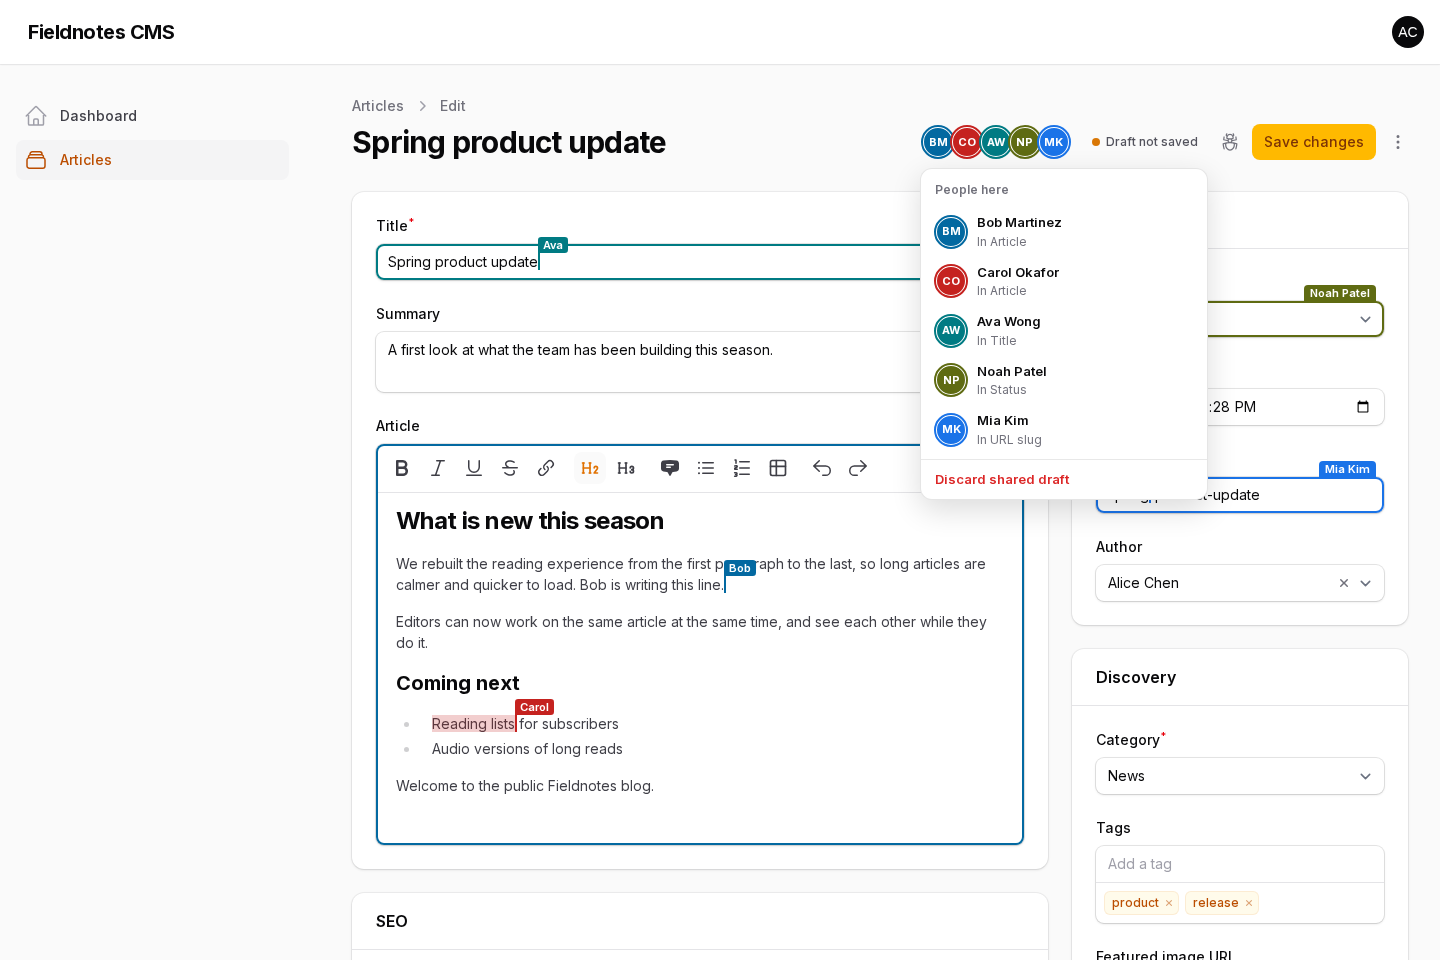
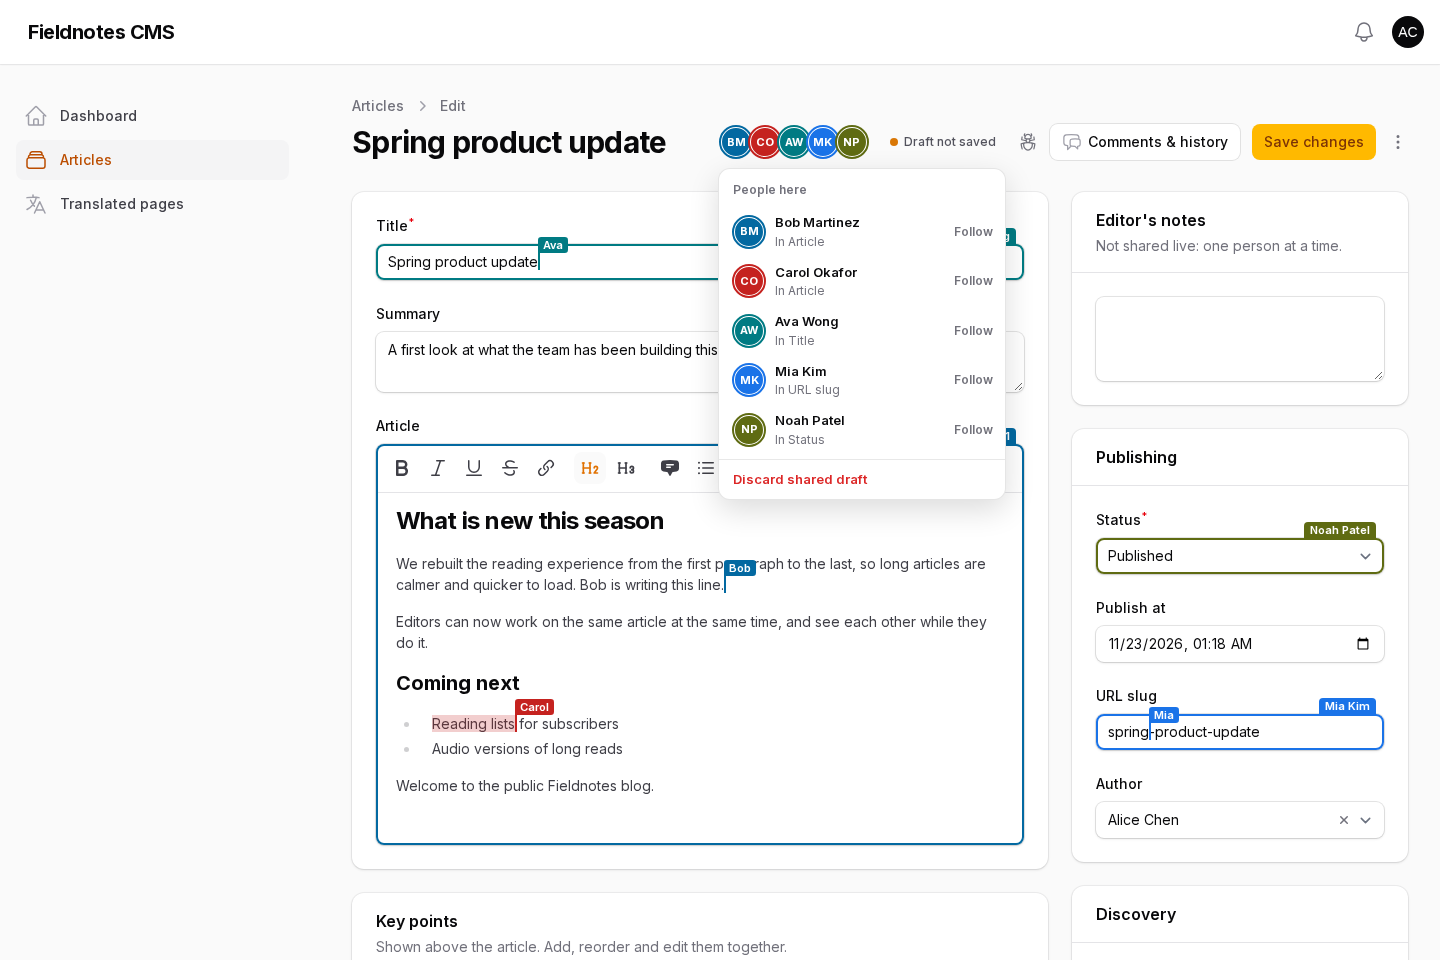
docs: README, guide, architecture and demo README for the new features, with screenshots
Eight new screenshots, captured from real sessions by npm run media:
comments, history, a colleague behind a closed tab, following, two
languages at once, a live upload, third-party editors and a relation
manager. The other ten are captured again with the current UI.

diff --git a/docs/guide.md b/docs/guide.md
@@ -116,6 +116,8 @@ A field the package does not know, such as a third-party editor, merges on save.
 
 **Translated pages** (a locale switcher, such as `lara-zeus/spatie-translatable`'s) are live too, with one shared draft per language. Everybody on the record is in one room and sees each other, while English typing stays in the English draft and Chinese in the Chinese one. Switching language moves your page to that language's draft, including colleagues' unsaved typing there. Saving publishes the language you are on; the others keep what is stored, and their drafts are saved from their own language.
 
+![Bob in the Chinese draft while Alice is in the English one](media/translations.png)
+
 Date pickers with a personal timezone always merge on save, because their state differs per person.
 
 ## 3. Saving, drafts and conflicts
@@ -213,6 +215,8 @@ protected function getHeaderActions(): array
 
 A version is kept at most every five minutes while people edit, on every save, and before and after a restore, up to the last 100 per draft, in `filament_collaboration_versions`. **Restore** puts the draft back as it was, for everybody in the room at once; the draft from before the restore stays in the list, so a restore can be undone. It changes only the live fields the person may edit, and nothing is saved until somebody saves. On a translated page each language has its own history.
 
+![The history: who changed which fields, and a restore](media/history.png)
+
 **Comments** are on the record, or on one of its fields. Everybody who can open the record reads them and can comment. The author and anybody who may edit the record can resolve or reopen a comment. The button shows how many comments are open. Every language of a translated record shares its comments, and deleting a record for good deletes them too.
 
 To let people `@mention` each other, say who may be mentioned on a record. The comment box suggests their names after `@`. Each person mentioned gets a Filament [database notification](https://filamentphp.com/docs/notifications/database-notifications) that links back to the record:
@@ -226,11 +230,17 @@ $panel->databaseNotifications(); // to show them in the panel
 
 Pass `notify: false` to skip the notifications. `CommentPosted` (`record`, `by`, `comment`, `url`) is dispatched for every comment, and `$event->comment->mentions` lists the people it mentions, so you can send the news anywhere else too.
 
+![Comments on fields, with a mention being picked](media/comments.png)
+
 ## 4. Presence in tables and modals
 
 **Fields out of sight.** When somebody is in a field behind a tab that is not selected, a wizard step that is not current, or a collapsed section, their initials show on that tab, step or section header. Choosing them in the avatar list opens the tab and the section and scrolls to the field. There is nothing to set up.
 
+![Bob is behind the closed Publishing tab](media/hidden-field.png)
+
 **Following a colleague.** In the avatar list, **Follow** next to somebody keeps going to whichever field they are in, opening tabs and sections on the way, so you can watch a walkthrough without chasing it. Clicking or typing anywhere in the form stops it, and so does **Stop following** or them leaving.
+
+![Following Bob opened the tab and the section](media/follow.png)
 
 **Relation managers.** Add `SharesRelationChanges` to a relation manager, and what one person creates, edits, deletes, attaches or toggles in it shows at once in everybody else's copy of the page, over Reverb or at their next poll:
 
@@ -242,6 +252,8 @@ class TasksRelationManager extends RelationManager
     use SharesRelationChanges;
 }
 ```
+
+![Tasks Alice added, in Bob's open copy](media/relation-manager.png)
 
 **A column with the people on each record:**
 
@@ -434,6 +446,8 @@ An image inserted into a rich editor is stored at once, so whoever saves keeps i
 
 **Upload fields** work the same way. A file is checked against the field's own rules (type, size, count) and stored the moment it finishes uploading, so everybody sees it at once and anybody's save keeps it. The list of files is shared like a repeater's items: adding, removing and reordering merge. A browser can only add files stored for this draft, or files the record already has.
 
+![A file Alice uploaded, in Bob's form](media/live-uploads.png)
+
 If you use Filament's `preventFilePathTampering()`, also allow files stored for the draft, as a colleague's file is not yet one of the record's:
 
 ```php
@@ -533,6 +547,10 @@ Only `read` and `write` are required; without the selection methods, edits still
 
 If the adapter is missing, or throws, the field simply merges on save as before.
 
+The demo's `packages/` folder has working adapters for TinyMCE, CKEditor 5, Quill and Trix:
+
+![TinyMCE and Quill, live with carets](media/third-party-editors.png)
+
 ### HTML editors
 
 TinyMCE, CKEditor, Quill, Trix and most WYSIWYG editors hold HTML. Merging HTML by character could break its tags, so an adapter with `format: 'html'` hands over HTML, and the package turns it into the same document the built-in rich editor shares: paragraphs, headings, bold, italic, underline, strike, code, links, lists, quotes, tables, images and line breaks. Those merge by character, block and mark, with carets; anything else in the HTML is kept as its text. On save, the field gets HTML back.
@@ -570,6 +588,22 @@ Register its PHP side with `FieldKind::RichText`. Keep the editor object off Alp
 **Working examples** are in `demo/packages/`: a TinyMCE, a CKEditor 5, a Quill and a Trix field, each a small Filament package with its adapter in `resources/js/editor.js` and its registration in the service provider. The demo's article form uses all four, and the browser tests type in each from two browsers at once. Rebuild them with `npm run build:editors` in `demo/`. TinyMCE and CKEditor 5 are GPL-licensed when used without a commercial licence key.
 
 **Your own presence storage.** Presence is stored in the database by default. Bind your own implementation of `Contracts\PresenceRepository`, for example on Redis, in a service provider.
+
+### With an AI assistant
+
+The package ships a [Laravel Boost](https://laravel.com/docs/boost) skill, `filament-collaboration-development`, and a short guideline in `resources/boost`. Boost installs a package's skills once the app opts in, in `boost.json`:
+
+```json
+{
+    "packages": ["solutionforest/filament-collaboration"]
+}
+```
+
+```bash
+php artisan boost:update
+```
+
+The guideline goes into your `CLAUDE.md` / `AGENTS.md`, and the skill into `.claude/skills` and `.agents/skills`. It covers the traits, which fields are live, permissions, comments and history, relation managers, adapters, Reverb and Redis presence, testing and common mistakes. The demo uses it.
 
 ## 10. Debugging
 

diff --git a/README.md b/README.md
@@ -26,8 +26,12 @@
 | **Real merging** | Two people typing in the same sentence both keep their words. Undo only undoes your own typing. Edits survive going offline and reloading. |
 | **Polling or WebSockets** | Works on plain HTTP through your Laravel app, with nothing to install. Add Laravel Reverb and a keystroke reaches others in about 60 ms instead of 350 ms. |
 | **Safe by default** | Every request is authorised again, every edit is validated, and fields a person cannot see never reach their browser. |
-| **Comments and history** | One slide-over: comments on fields with `@mentions` and notifications, and the draft's versions, restored for everybody in a click. See [Comments and version history](docs/guide.md#comments-and-version-history). |
+| **Comments and history** | One slide-over: comments on the record or a field with `@mentions` and notifications, and the draft's versions, restored for everybody in a click. See [Comments and version history](docs/guide.md#comments-and-version-history). |
+| **Nobody out of sight** | A colleague in a field behind a closed tab, wizard step or collapsed section shows on its header; **Follow** keeps your page on whichever field they are in. |
+| **Translations, uploads, relations** | Translated pages get one shared draft per language. Uploaded files appear for everyone at once. Relation managers refresh in colleagues' open copies. |
+| **Scales out** | Several app servers on one database, presence in Redis, changes over Reverb; a load test with 300 editors across two servers is included. |
 | **Merge on save for the rest** | Fields that cannot be live get a field-by-field three-way merge with a conflict dialog. |
+| **Ready for AI assistants** | Ships a [Laravel Boost](https://laravel.com/docs/boost) skill and guideline, so Claude Code, Cursor or Codex know how to use it in your app. |
 
 ## Requirements
 
@@ -135,18 +139,61 @@ Sign in at `/admin` as `alice@example.test` and, in another browser, `bob@exampl
 | ![Who is here](docs/media/people-panel.png) | ![Dark mode](docs/media/dark-mode.png) |
 | ![Quick edit](docs/media/quick-edit.png) | ![Phone](docs/media/mobile.png) |
 
+**Comments and history**, in one slide-over: comments on a field with `@mentions`, and versions of the shared draft to restore.
+
+| | |
+| --- | --- |
+| ![Comments with an @mention being picked](docs/media/comments.png) | ![The history, with a restore](docs/media/history.png) |
+
+**Out of sight, but not out of mind**: Bob is in a field behind the closed Publishing tab, so his initials are on the tab. Following him opens it.
+
+| | |
+| --- | --- |
+| ![Initials on a closed tab](docs/media/hidden-field.png) | ![Following a colleague](docs/media/follow.png) |
+
+**Two languages at once**, each in its own draft, and **editors from other packages**, live through an adapter:
+
+| | |
+| --- | --- |
+| ![A translated page, Bob in Chinese while Alice is in English](docs/media/translations.png) | ![TinyMCE and Quill, with carets](docs/media/third-party-editors.png) |
+
+**Uploads and relation managers**: a file Alice uploads is in Bob's form at once, and so are the tasks she adds to the checklist.
+
+| | |
+| --- | --- |
+| ![A live upload](docs/media/live-uploads.png) | ![A relation manager refreshed](docs/media/relation-manager.png) |
+
+The demo also has a **Translated pages** resource (English and Chinese, in tabs) and a **Checklist** relation manager on articles. To run it on Redis presence, set `FILAMENT_COLLABORATION_PRESENCE=redis` in `.env`.
+
+## With an AI assistant
+
+The package ships a [Laravel Boost](https://laravel.com/docs/boost) skill, `filament-collaboration-development`, and a short guideline. In an app that uses Boost, add the package to `boost.json` and update:
+
+```json
+{
+    "packages": ["solutionforest/filament-collaboration"]
+}
+```
+
+```bash
+php artisan boost:update
+```
+
+Your assistant then knows the traits, which fields are live, adapters, comments and history, relation managers, Redis presence and how to test them. The skill is in [`resources/boost/skills`](resources/boost/skills/filament-collaboration-development/SKILL.md), readable on its own too.
+
 ## Quality
 
 Each push runs [`tests.yml`](.github/workflows/tests.yml):
 
 | Check | What |
 | --- | --- |
-| Pest | 281 tests on PHP 8.3 and 8.4 × Laravel 12 and 13 with Filament 5, plus the oldest supported Filament, 5.8.3; at least 95% line coverage |
+| Pest | 321 tests on PHP 8.3 and 8.4 × Laravel 12 and 13 with Filament 5, plus the oldest supported Filament, 5.8.3; at least 95% line coverage; the whole suite again with presence in Redis |
 | PHPStan | level 10, on the package and the demo |
 | Pint | Laravel's code style |
 | JavaScript | `tsc --strict` over JSDoc types, ESLint, and the CRDT's unit tests with at least 95% coverage |
-| Browsers | 47 scenarios in Chromium with polling and with Reverb, and in WebKit |
+| Browsers | 54 scenarios in Chromium with polling and with Reverb, and in WebKit |
 | Chaos | [nightly](.github/workflows/chaos.yml): four browsers pressing random keys must converge with no editor error |
+| Load | [on demand](.github/workflows/load.yml): hundreds of editors across two servers, database or Redis presence, polling or Reverb |
 
 Run them yourself:
 
@@ -154,7 +201,8 @@ Run them yourself:
 cd demo
 vendor/bin/pest --coverage      # PHP tests
 vendor/bin/phpstan analyse      # static analysis, level 10
-npm run test:e2e                # real browsers; BROWSER=webkit, TRANSPORT=reverb
+npm run test:e2e                # real browsers; BROWSER=webkit, TRANSPORT=reverb, THROTTLE=8
+SERVERS=2 PRESENCE=redis npm run test:load -- 300 45   # many editors, two servers
 cd .. && npm run check          # JavaScript: lint, types and tests
 ```
 

diff --git a/docs/architecture.md b/docs/architecture.md
@@ -37,6 +37,9 @@ The merge engine is written twice, in PHP (`src/Crdt`) and JavaScript (`resource
 - Drafts are stored in `filament_collaboration_documents`, with an update log in `filament_collaboration_updates`. Writes happen under a row lock. The log is compacted once a draft is clean and nobody is editing.
 - Sync never writes the session, so it cannot race a save or a logout.
 - Save takes a cache lock per record, publishes the live fields from the draft, and three-way merges the rest.
+- Presence is one record per open tab, in `filament_collaboration_participants` by default. With `FILAMENT_COLLABORATION_PRESENCE=redis` it is in Redis instead: per room a hash of tabs and a sorted set of when each was last seen, per resource a sorted set of its tabs. An unchanged heartbeat is written only every few seconds either way.
+- Several application servers can share one database and one cache store: a request may reach any of them.
+- Comments, versions of the draft, uploads stored for it and the per-minute edit trail have tables of their own (`filament_collaboration_comments`, `_versions`, `_uploads`, `_edits`). A relation manager's changes raise a counter per room in the cache, pushed or polled like everything else.
 
 ## Performance
 
@@ -68,15 +71,27 @@ Pushes make changes 6 to 20 times faster. A room where most people read gets far
 
 ![A hundred people on one article](media/hundred-editors.png)
 
+### Two servers, and presence in Redis
+
+`SERVERS=2` runs two application servers on one database and spreads the editors over them; `PRESENCE=redis` keeps presence in Redis. Besides convergence, the test checks that every editor counts every other one, whichever server they are on. 300 editors for 40 seconds, polling, on a **single-CPU** machine where both servers, SQLite and the crowd share the core:
+
+| Setup | Requests per second | Request 95th percentile | Typed to seen, median | Everybody sees everybody | Converged |
+| --- | --- | --- | --- | --- | --- |
+| 1 server, database presence | 73 | 4.9 s | 8.5 s | 300 / 300 | 300 / 300 |
+| 2 servers, database presence | 75 | 4.9 s | 8.7 s | 300 / 300 | 300 / 300 |
+| 2 servers, Redis presence | 76 | 4.1 s | 6.9 s | 300 / 300 | 300 / 300 |
+
+On one core this measures correctness across servers, not how throughput scales: the latencies are the CPU queue. Redis presence still cut the slowest requests by a sixth. The **Load** workflow runs the same matrix, with Reverb too, on a CI runner and reports its core count.
+
 ## Tests
 
 | Command | Where | What |
 | --- | --- | --- |
-| `vendor/bin/pest` | `demo/` | 281 tests: the package's unit tests and the demo's feature tests |
+| `vendor/bin/pest` | `demo/` | 321 tests: the package's unit tests and the demo's feature tests; `FILAMENT_COLLABORATION_PRESENCE=redis` runs them on Redis presence |
 | `vendor/bin/phpstan analyse` | `demo/` | level 10, on the package and the demo |
-| `npm run test:e2e` | `demo/` | 47 scenarios in real browsers; `BROWSER=webkit`, `TRANSPORT=reverb` |
+| `npm run test:e2e` | `demo/` | 54 scenarios in real browsers; `BROWSER=webkit`, `TRANSPORT=reverb`, `THROTTLE=8` for a slow CPU |
 | `npm run test:chaos -- 10 42` | `demo/` | four browsers pressing random keys; every round must converge |
-| `npm run test:load -- 100 45` | `demo/` | editors and seconds; `TRANSPORT=reverb` and `ACTIVE=0.1` also apply |
+| `npm run test:load -- 100 45` | `demo/` | editors and seconds; `TRANSPORT=reverb`, `ACTIVE=0.1`, `SERVERS=2` and `PRESENCE=redis` also apply |
 | `npm run test:latency` | `demo/` | key press to another screen |
 | `npm run check` | root | ESLint, `tsc --strict` over the JSDoc types, and the CRDT tests |
 | `npm run media` / `npm run tutorial` | `demo/` | the README's screenshots and video, from real sessions |

diff --git a/demo/README.md b/demo/README.md
@@ -13,14 +13,22 @@ For changes pushed over WebSockets instead of polled, set `BROADCAST_CONNECTION=
 
 Open `/admin` in two browsers as `alice@example.test` and `bob@example.test` (password `password`), and `/blog` for the public site. Coming from an earlier version of this demo, run `php artisan migrate:fresh --seed`.
 
+What to try:
+
+- **Articles**: every kind of live field, including a gallery upload, Markdown and code editors, four third-party editors, and a locked "Editor's notes" field. **Comments & history** in the header opens comments (type `@` to mention a colleague) and versions to restore. The **Checklist** below the form refreshes in the other browser.
+- **Translated pages**: English and Chinese, each its own shared draft. The slug is behind the Publishing tab and a collapsed section; when Bob is in it, Alice sees his initials on the tab. **Follow** in the avatar list keeps your page on a colleague's field.
+- Presence in Redis: set `FILAMENT_COLLABORATION_PRESENCE=redis` in `.env`, with Redis running.
+
 | Command | |
 | --- | --- |
 | `vendor/bin/pest` | package and demo tests |
-| `npm run test:e2e` | real-browser scenarios (`BROWSER=webkit` for WebKit, `TRANSPORT=reverb` over Reverb) |
-| `npm run test:load -- 100 45` | 100 editors for 45 seconds |
+| `npm run test:e2e` | real-browser scenarios (`BROWSER=webkit` for WebKit, `TRANSPORT=reverb` over Reverb, `THROTTLE=8` for a slow CPU) |
+| `npm run test:load -- 100 45` | 100 editors for 45 seconds; `SERVERS=2 PRESENCE=redis` for two servers on Redis presence |
 | `npm run test:latency` | key press to another screen |
 | `npm run media` / `npm run tutorial` | the README's screenshots and video |
 
 `packages/` holds four small third-party-style field packages, TinyMCE, CKEditor 5, Quill and Trix, each made live by a JavaScript adapter: the examples to copy for your own editor. After changing one, run `npm run build:editors` and `php artisan filament:assets`.
 
 `scripts/browser-*.mjs` are the earlier prototype's browser checks. They target its removed Yjs endpoints and no longer run; `npm run test:e2e` covers what they did.
+
+AI assistants: `boost.json` opts into the package's Laravel Boost skill, so `CLAUDE.md`, `AGENTS.md` and `.claude/skills/filament-collaboration-development` describe how to use it. After changing `resources/boost` in the package, run `php artisan boost:update`.
